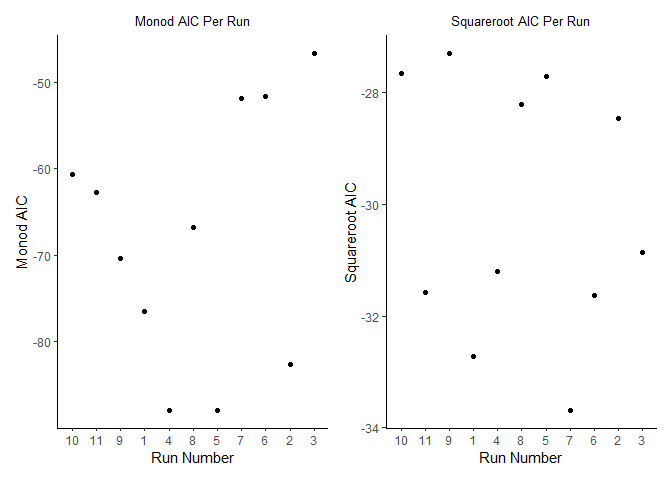
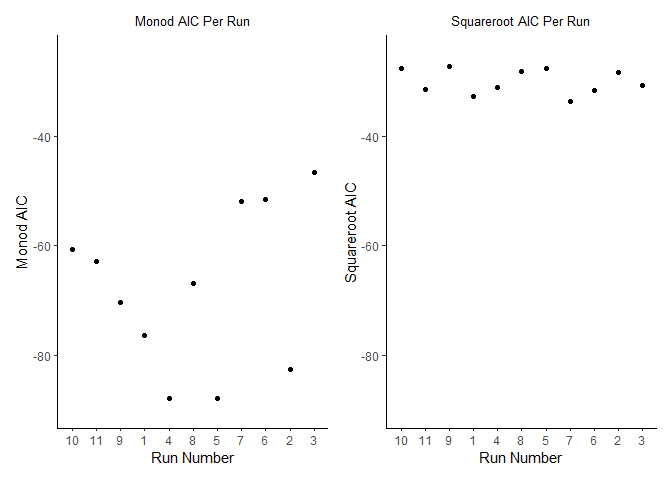
WRONG

diff --git a/homework_8_v1.md b/homework_8_v1.md
@@ -54,6 +54,8 @@ diamonds_start
 A table to which I have added (mutated) the column slope in descending
 order.
 
+arrange(desc(sqrt\_aic))+ arrange(desc(monod\_aic))
+
 # Non linear
 
 ``` r
@@ -80,7 +82,7 @@ compare_models <- DNase %>%
     monod_mod, data = ., start = list(dmax = .3, k = .4)
   )), 
   sqrt_aic= map_dbl(sqrt_mod,~glance(.)$AIC), 
-  monod_aic=map_dbl(monod_mod,~glance(.)$AIC))
+  monod_aic=map_dbl(monod_mod,~glance(.)$AIC)) 
 compare_models
 ```
 
@@ -103,7 +105,9 @@ compare_models
 # Build the Plots for comparison
 
 ``` r
-plot_monod_model <- ggplot(compare_models,aes(x=Run, y=monod_aic))+
+plot_monod_model <- compare_models %>% 
+    ggplot(aes(x=Run, y=monod_aic))+
+  scale_y_continuous(limit=c(-90,-25))+
   geom_point()+
   theme_classic()+
   labs(title="Monod AIC Per Run", y= "Monod AIC", x="Run Number")+
@@ -116,10 +120,11 @@ plot_monod_model
 ``` r
   plot_squareroot_model <- ggplot(compare_models,aes(x=Run, y=sqrt_aic))+
   geom_point()+
+    scale_y_continuous(limit=c(-90,-25))+
   theme_classic()+
   labs(title="Squareroot AIC Per Run", y= "Squareroot AIC", x="Run Number")+
   theme(plot.title = element_text(size = 10, hjust = .5))
-plot_squareroot_model
+    plot_squareroot_model
 ```
 
 ![](homework_8_v1_files/figure-gfm/unnamed-chunk-3-2.png)<!-- -->
